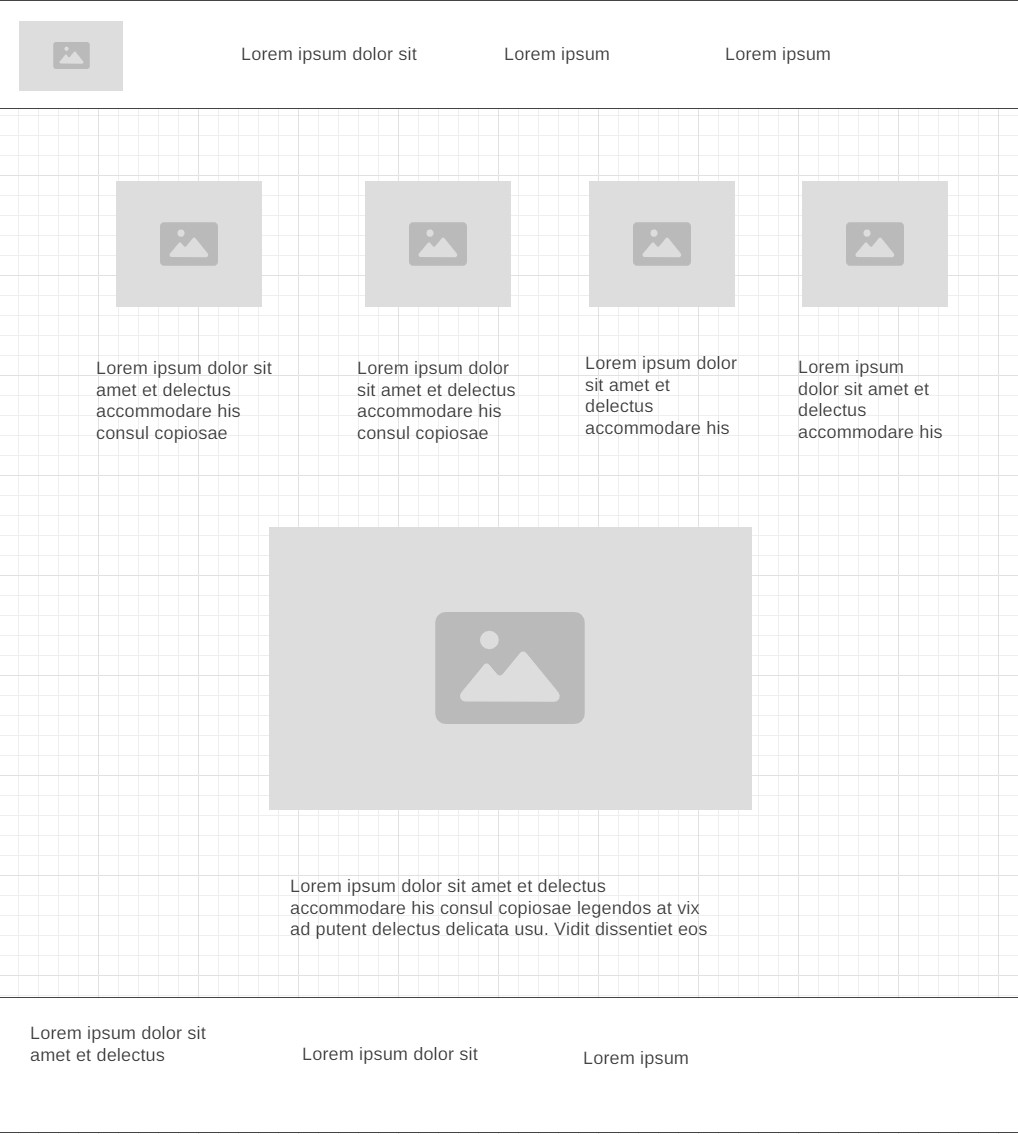
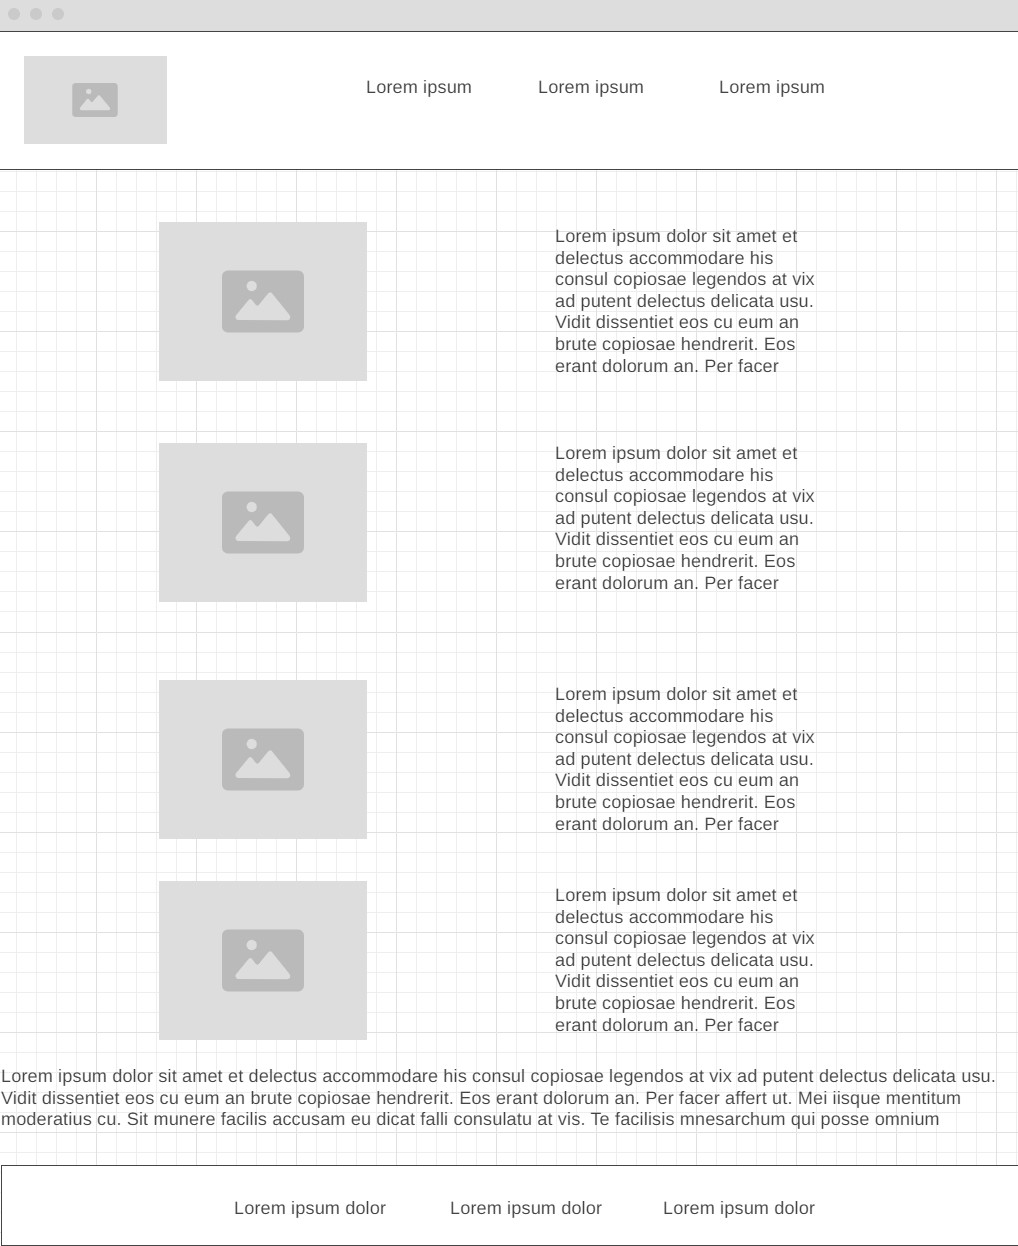
edit

diff --git a/guitar_start/styles/page2.css b/guitar_start/styles/page2.css
@@ -1,0 +1,81 @@
+@import url('https://fonts.googleapis.com/css2?family=Klee+One&family=Neucha&display=swap');
+
+* {
+    margin: 0;
+    padding: 0;
+    box-sizing: border-box;
+}
+
+body {
+    font-family: "Klee", serif;
+    line-height: 1.6;
+    text-align: center; 
+}
+
+header {
+    background-color: #9c562f; 
+    color: #fff;
+    padding: 10px;
+    display: flex;
+    justify-content: center; 
+    align-items: center;
+}
+
+.logo {
+    width: 100px;
+    height: auto;
+}
+
+nav a {
+    color: #fff;
+    font-size: x-large;
+    font-family: "Neucha", sans-serif ;
+    margin-right: 20px;
+}
+
+nav a:hover {
+    text-decoration: underline;
+}
+
+main {
+    padding: 20px;
+    margin: 0 auto; 
+    max-width: 800px; 
+    display: flex; 
+    flex-wrap: wrap; 
+    justify-content: space-between; 
+}
+
+img {
+    width: 200px; 
+    height: 200px; 
+    object-fit: cover; 
+    margin: 10px; 
+    display: inline-block; 
+    vertical-align: top; 
+}
+
+p {
+    flex: 0 0 48%; 
+    border: 2px solid #ccc;
+    padding: 10px;
+    margin-bottom: 20px;
+    margin-top: 5px;
+}
+
+footer {
+    background-color: #9c562f; 
+    color: #fff;
+    padding: 10px;
+    text-align: center;
+}
+
+footer nav a {
+    color: #fff;
+    text-decoration: none;
+    margin-right: 20px;
+}
+
+footer nav a:hover {
+    text-decoration: underline;
+}

diff --git a/guitar_start/page2.html b/guitar_start/page2.html
@@ -4,6 +4,7 @@
     <meta charset="UTF-8">
     <meta name="viewport" content="width=device-width, initial-scale=1.0">
     <title>Getting Started</title>
+    <link type="text/css" rel="stylesheet" href="styles/page2.css">
 </head>
 <body>
     <div id="content">
@@ -39,10 +40,10 @@
             <p>Lastly, consider getting a capo. A capo is a handy accessory that clamps onto the guitar neck, allowing you to change the pitch of the strings and play in different keys without altering your fingerings.
              It's a valuable tool for beginners exploring various songs and styles.
             </p>
-            <p>Armed with these essentials, you're ready to dive into the world of guitar playing. Remember, the most crucial element is your passion for learning and your willingness to embrace the joy of making music.
-                 So, grab your guitar, tune it up, and get ready to start!
-            </p>
         </main>
+        <p>Armed with these essentials, you're ready to dive into the world of guitar playing. Remember, the most crucial element is your passion for learning and your willingness to embrace the joy of making music.
+            So, grab your guitar, tune it up, and get ready to start!
+       </p>
     </div>
 
         <footer>
